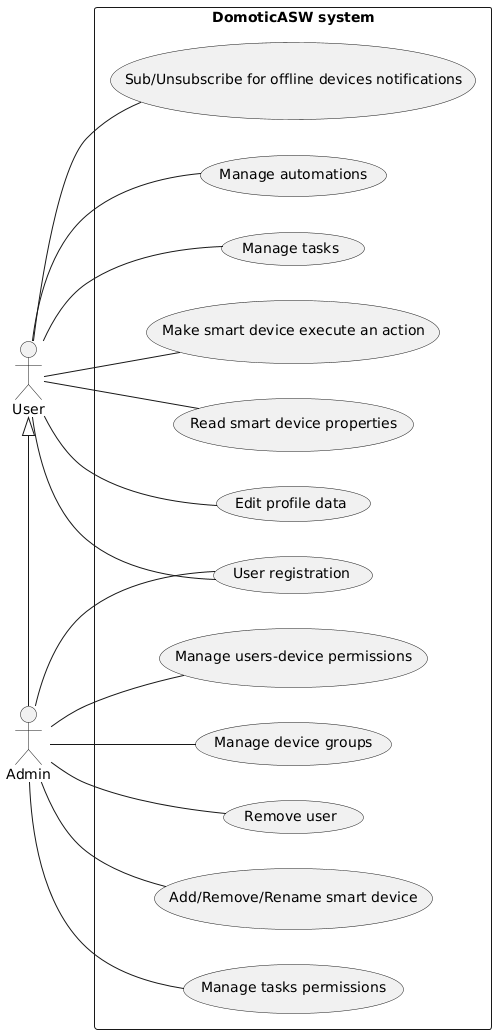
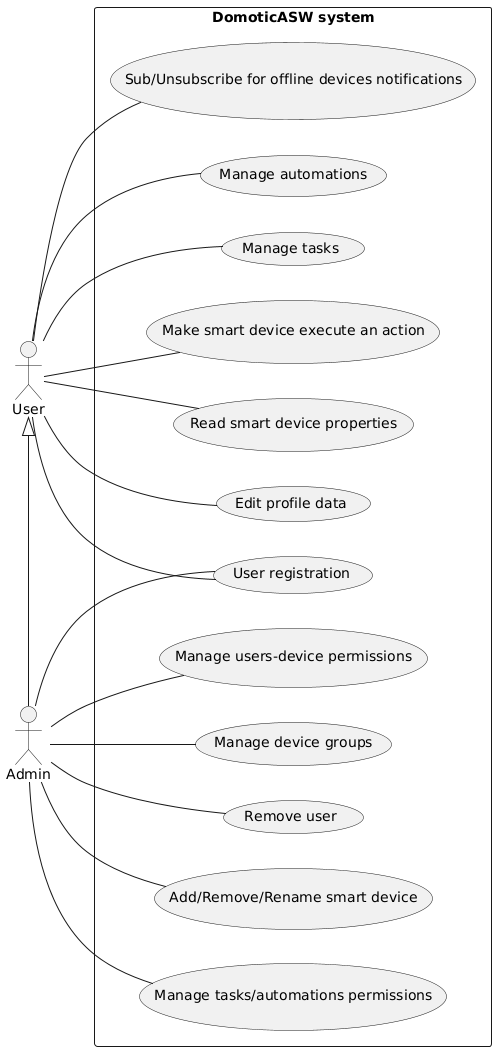
add automation editlist requirement

diff --git a/profile/README.md b/profile/README.md
@@ -181,7 +181,7 @@ We plan to use:
 |Admin|to add, remove or rename smart devices in my smart home|i can extend my domotic system|
 |Admin|to be able to set up user-device permissions and as a consequence tasks can be executed only by users that own the user-device permission for every device included in the task|i can prohibit uninteded use of the system|
 |Admin|tasks to have a user whitelist and a user blacklist to override user-device permissions|i can prohibit uninteded use of the system|
-|Admin|tasks to have an editlist to specify which user can edit that task|i can prohibit uninteded use of the system|
+|Admin|tasks and automations to have an editlist to specify which user can edit that|i can prohibit uninteded use of the system|
 |Admin|to review and accept or decline users registration requests|i can manage who has access to the system|
 |Admin|to be able to remove users from the system|i can manage who has access to the system|
 |Admin|to organize the home devices in groups|it's easier to manage them|
